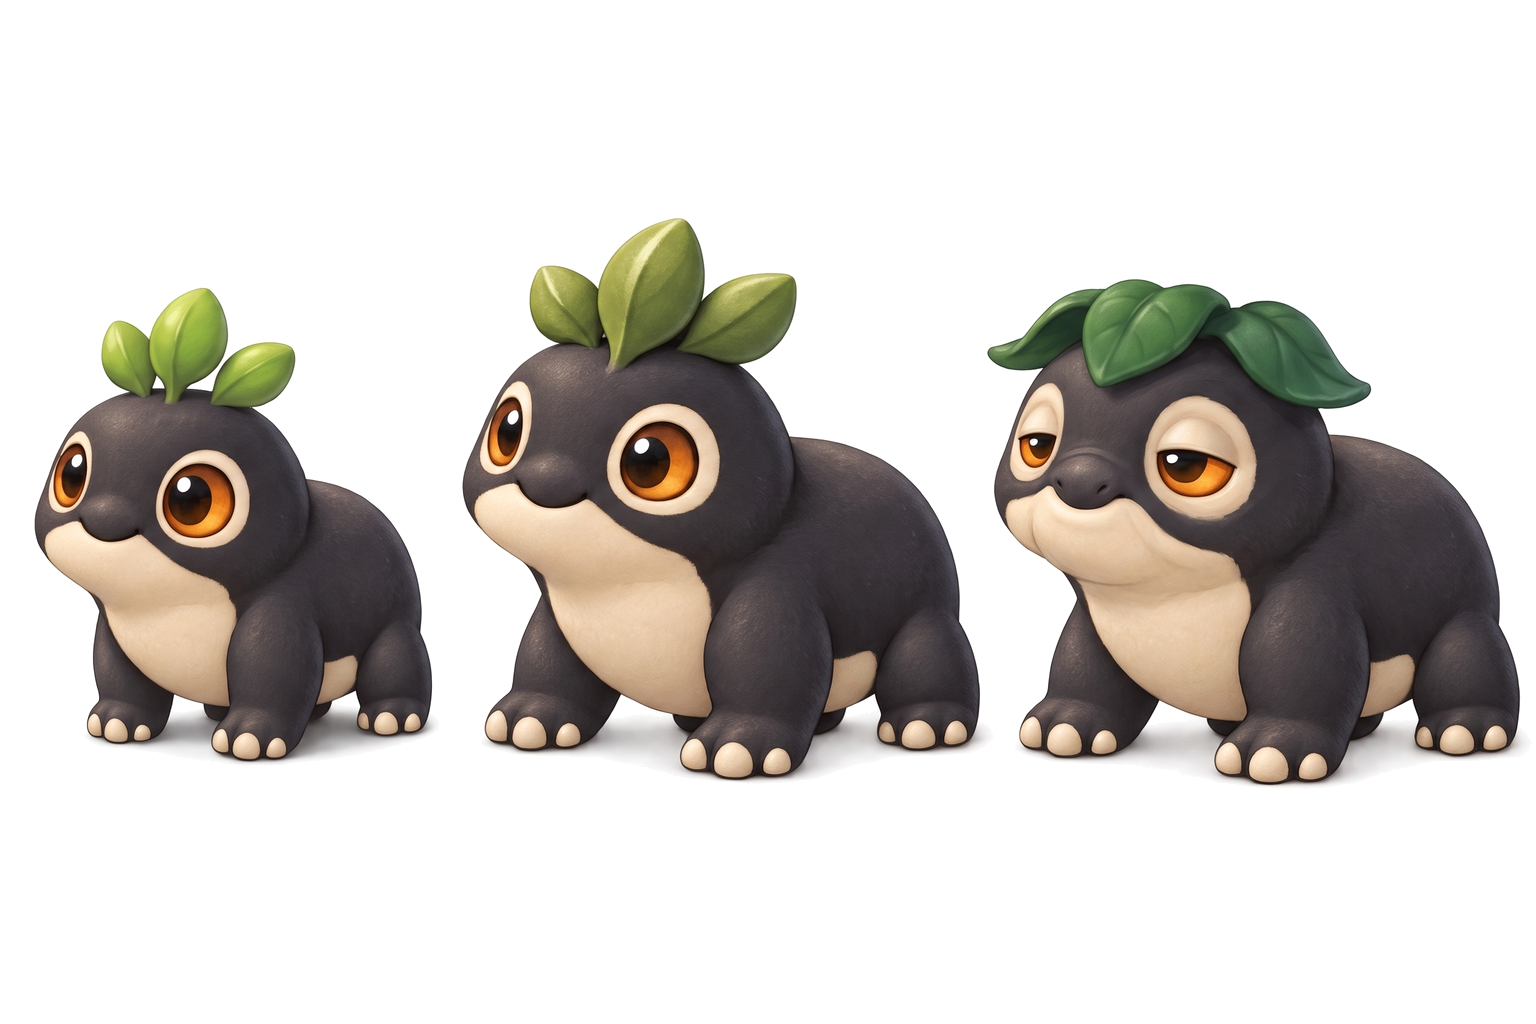
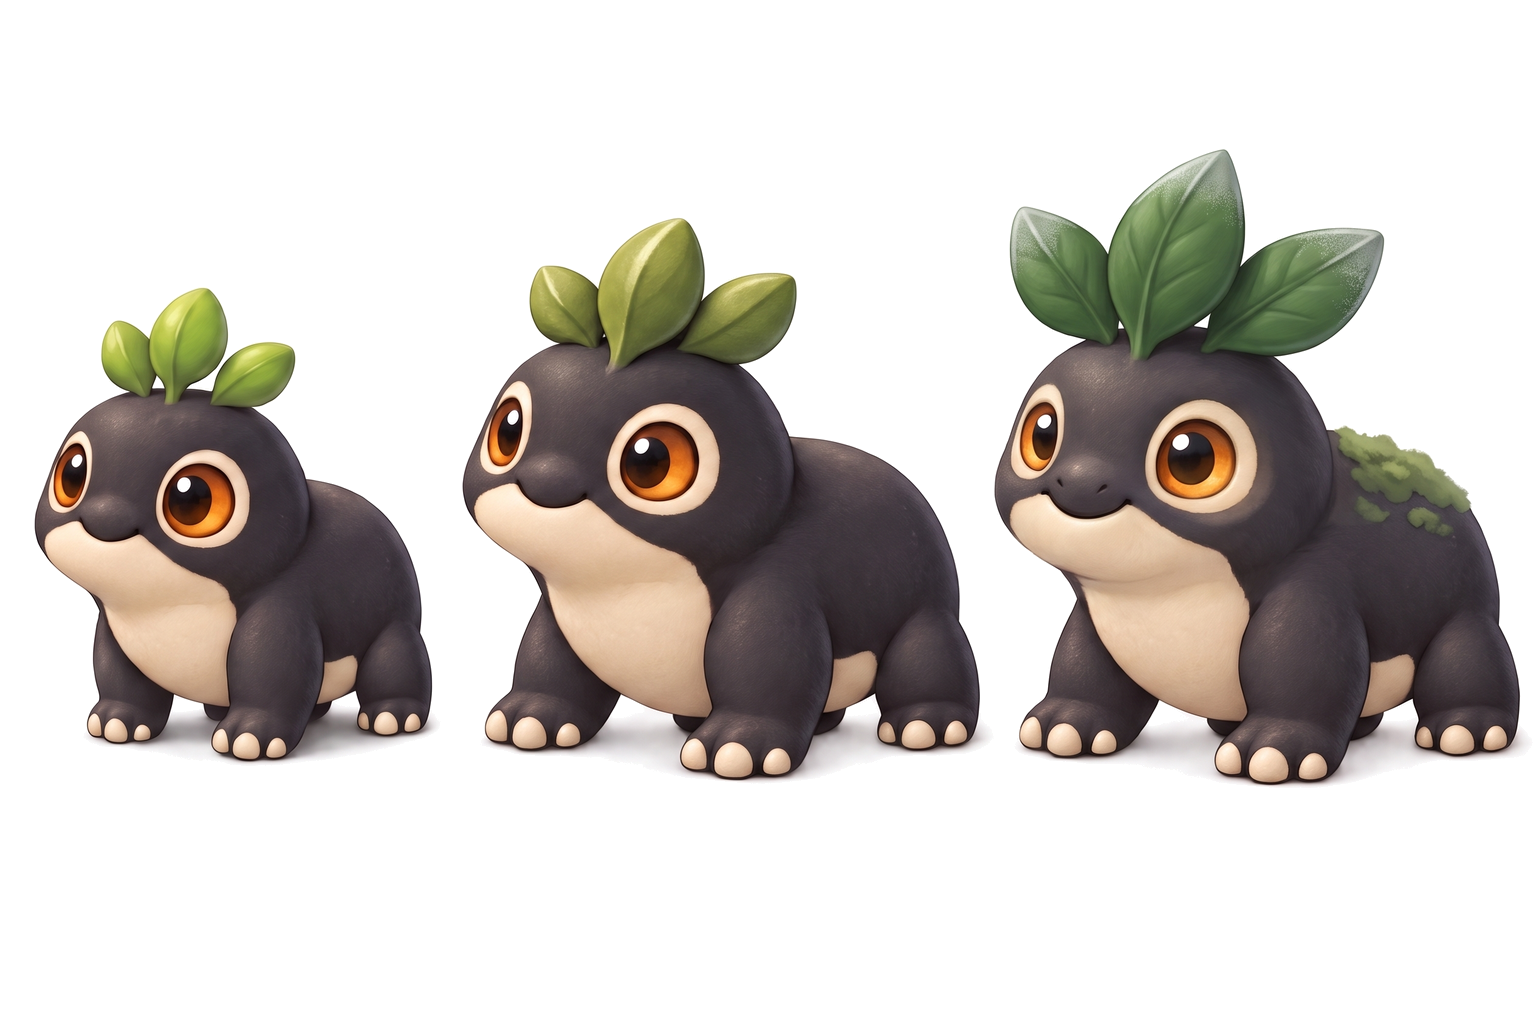
Art: elder Pip redone (calm, dignified)
The owner rejected the L1 elder: drooping leaves and half-lidded eyes read
as depressing. One gemini-3-pro-image edit pass on the kept L1 raw output
changed only the right-hand figure: eyes fully open and bright, three
deep-green leaves held up with frosted tips, a small moss patch on the back
as the only sign of age; juvenile and adult preserved. Budget 3 calls, used 1.

- pip-life-stages.png: new keyed L1; the first is kept as pip-life-stages-v1.png
- raw/L1-attempt3.jpg: the unaltered API output
- prompts.json, manifest.json, README.md: fourth-batch record, hashes, verdict
- contact-sheet.png: L1 cell re-pasted
- website/assets/pip-life-stages.webp: alpha-trimmed 1200x512, 78,840 bytes;
  index.html height and alt text updated to match

Changed region(s): [[0.625, 0.125, 0.9688, 0.5938], [0.6875, 0.5625, 0.7188, 0.5938]]

diff --git a/website/index.html b/website/index.html
@@ -482,8 +482,8 @@ footer { padding-bottom: 32px; }
         </figure>
         <figure class="flat">
           <p class="title">A whole life</p>
-          <img src="assets/pip-life-stages.webp" width="1200" height="458" loading="lazy"
-            alt="Three Pips side by side: a small round juvenile with bright leaf buds, an adult, and a heavier elder with half-lidded eyes and broad drooping leaves.">
+          <img src="assets/pip-life-stages.webp" width="1200" height="512" loading="lazy"
+            alt="Three Pips side by side: a small round juvenile with bright leaf buds, an adult, and a heavier elder with bright open eyes, broad deep-green leaves held up and a small moss patch on its back.">
           <ol class="stages caption" aria-label="Life stages"><li>Juvenile</li><li>Adult</li><li>Elder</li></ol>
           <figcaption><span class="label">Concept</span>Pip as juvenile, adult and elder</figcaption>
         </figure>

diff --git a/art/concept-homepage/README.md b/art/concept-homepage/README.md
@@ -42,6 +42,15 @@ background, keyed afterwards to the `-512.png` RGBA portraits the genealogy tree
 uses; `tree-preview.png` tiles them beside the accepted Pip at the tree's two sizes
 (160 px and 76 px) as a species-consistency check.
 
+**Fourth batch.** The owner rejected L1's elder: the drooping leaves and half-lidded
+eyes read as depressing. With a hard budget of 3 calls, one Pro call edited the kept
+L1 raw output (`raw/L1-attempt1.jpg`) with the rich Pip attached as identity, changing
+only the right-hand figure: eyes fully open, three deep-green leaves held up with
+frosted tips, a small moss patch on the back as the only sign of age. It passed its
+checklist, so no retry was made. The new file is `pip-life-stages.png` (keyed as
+before); the first one is kept as `pip-life-stages-v1.png`. The L1 cell of
+`contact-sheet.png` was re-pasted; `tree-preview.png` does not include L1.
+
 ![Contact sheet](contact-sheet.png)
 
 ## The candidates
@@ -54,7 +63,7 @@ uses; `tree-preview.png` tiles them beside the accepted Pip at the tree's two si
 | K1 `caddy-print` | `caddy-print.png` 1536×1024 | attempt 1 | pro |
 | S1 `station-research-pod` | `station-research-pod.png` 1024×600 (crop of `-canvas.png`) | attempt 1 | pro |
 | P1 `partner-patch` | `partner-patch.png` 900×1200, `-450x600.png` (crops of `-canvas.png`) | attempt 2 | flash |
-| L1 `pip-life-stages` | `pip-life-stages.png` 1536×1024 RGBA | attempt 1 (only one) | pro |
+| L1 `pip-life-stages` | `pip-life-stages.png` 1536×1024 RGBA (`-v1.png` is the superseded first one) | attempt 3 (edit of attempt 1) | pro |
 | D1 `companion-resident-home` | `companion-resident-home.png` 900×1200, `-450x600.png` (crops of `-canvas.png`) | attempt 2 | flash |
 | D2 `station-known-forms` | `station-known-forms.png` 1024×600 (crop of `-canvas.png`) | attempt 1 | pro |
 | E1 `caddy-summary-epaper` | `caddy-summary-epaper.png` 1600×479 (scaled and padded from `-canvas.png`) | attempt 2 | pro |
@@ -176,17 +185,27 @@ Judged at the size the page shows each image and, for screens, at 1×.
   crop), drew the dew cups as large bowls and its HUD's Pip face as a white blob.
 
 ### L1 `pip-life-stages`
+Fourth batch: `pip-life-stages.png` is attempt 3, a Pro edit of attempt 1 that changed
+only the elder; attempt 1 is kept as `pip-life-stages-v1.png`.
 - Pass: coat, cream belly, orange eyes and three crown lobes are the same in all
-  three; no added marks, horns or tails.
+  three; no added marks, horns or tails. The elder's only sign of age besides
+  proportion is a small muted-green moss patch on its upper back.
 - Pass: age reads from proportion and bearing: the juvenile is smaller and rounder
-  with larger eyes and bright buds; the elder is heavier and lower-set with
-  half-lidded eyes and broader, drooping, deeper green leaves.
-- Partial: the adult is close to the rich Pip but not an exact copy; the elder's
-  cream muzzle area is a little larger than the others'. The three figures are not
-  confined to equal 512×1024 cells (the adult and elder cross the cell lines).
+  with larger eyes and bright buds; the elder is heavier and lower-set with broader,
+  deeper green leaves held up, their tips lightly frosted.
+- Pass (the owner's note): the elder reads as calm and dignified, not sad. Both eyes
+  are fully open and bright with the adult's cream rings, and it has the same small
+  smile; nothing droops.
+- Pass: the juvenile and adult are the attempt 1 figures. Against the attempt 1 raw
+  output, 0.25 % of pixels in the left third and 0.69 % in the middle third differ by
+  more than 24 levels (JPEG re-encode noise); the elder's third differs by 13.9 %.
+- Partial (carried over): the adult is close to the rich Pip but not an exact copy;
+  the three figures are not confined to equal 512×1024 cells. The elder's crown is
+  drawn larger than the adult's, and the elder is not visibly lower-set than before.
 - Pass: transparent alpha with no halo (keyed from a flat white background; canvas
   corners are alpha 0). This is keyed, not generated, alpha.
-- Only one attempt: the second was refused by the spending cap.
+- Rejected by the owner: attempt 1 (`pip-life-stages-v1.png`), whose elder had
+  drooping leaves and half-lidded eyes. Attempt 2 was refused by the spending cap.
 
 ### D1 `companion-resident-home`
 - Pass: Pip reads as the HiBit Pip at 450×600, 1× (`companion-resident-home-450x600.png`):
@@ -311,7 +330,8 @@ kept as partial alpha; the species reads as one at both sizes.
   and D2 screens are crops of a larger canvas, as recorded in `manifest.json`.
 - Spend: first batch 17 calls (one refused by the cap); second batch 7 calls of the
   8 allowed, 4 on `gemini-3.1-flash-image` and 3 on `gemini-3-pro-image`; third
-  batch 11 calls of the 11 allowed, 8 Flash and 3 Pro.
+  batch 11 calls of the 11 allowed, 8 Flash and 3 Pro; fourth batch (L1 elder redo)
+  1 call of the 3 allowed, on Pro.
 - The variant portraits' alpha is keyed from a flat background, not generated;
   `v2-sable` fails its checklist (no leaf crown) and has only one attempt.
 - Nothing here establishes a runtime, a renderer or hardware behaviour.
